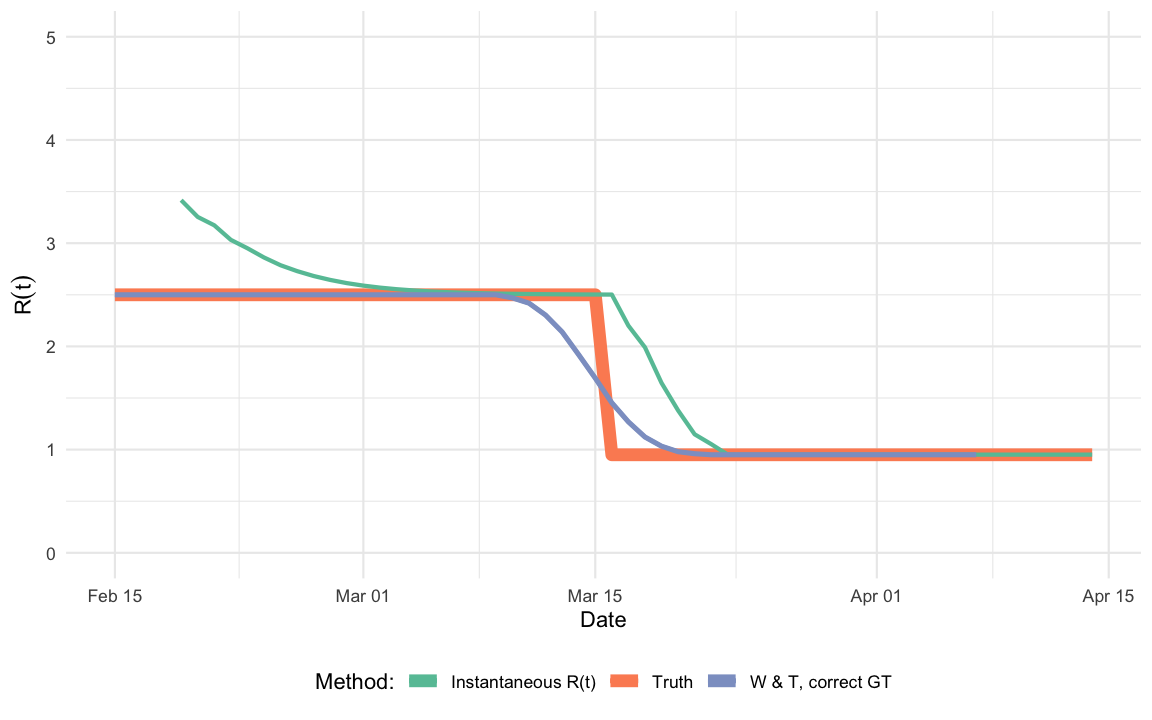
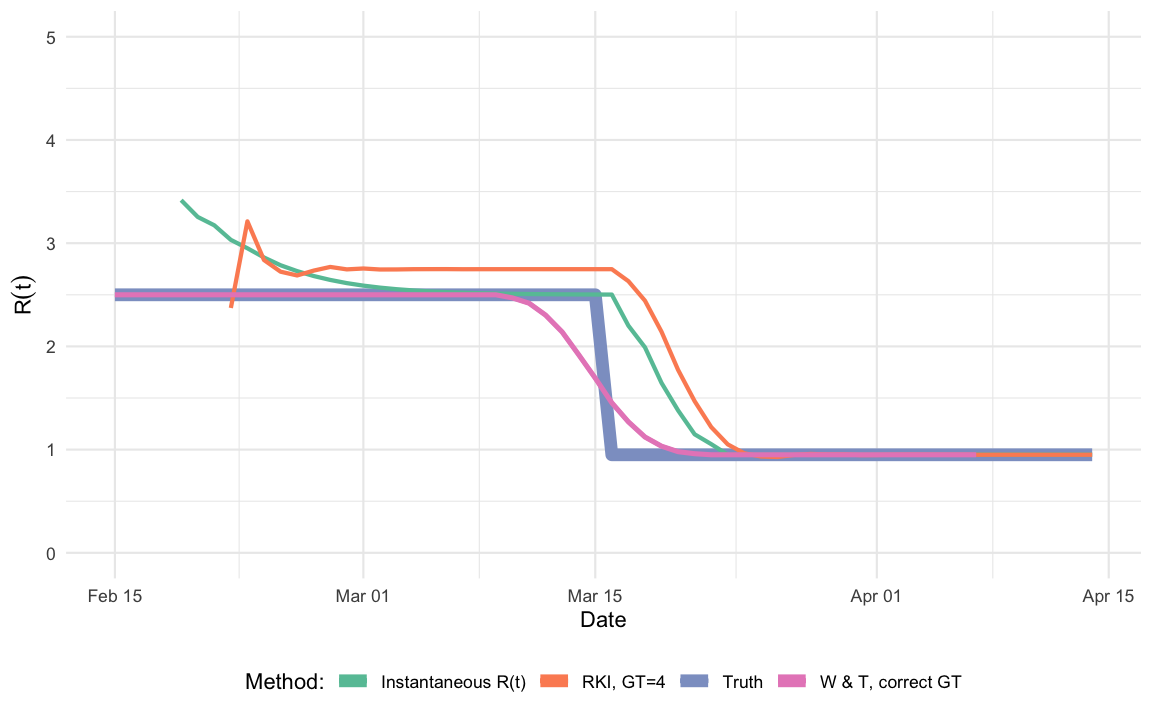
updated rki method to assign value to the last time point of the blocks,  as this is now specified in the 2020-04-24 version of the RKI paper

Changed region(s): [[0.0938, 0.3056, 0.9688, 0.6417], [0.2188, 0.9167, 0.8125, 0.9778], [0.5625, 0.4278, 0.5938, 0.5194]]

diff --git a/_posts/2020-04-15-effectiveR0.md b/_posts/2020-04-15-effectiveR0.md
@@ -162,27 +162,32 @@ $$
 y_{s+4} \>| \> y_s &\sim \operatorname{Po}(R \cdot y_s), \quad s=1,2,3,4.
 \end{align*}
 $$
-where $y_1,\ldots, y_4$ are considered as fixed. From this we obtain $\hat{R}_{RKI}=\sum_{s=1}^4 y_{s+4} / \sum_{s=1}^4 y_{s}$. If we use a GLM to fit the model, we not only get $\hat{R}_{RKI}$ but also a confidence interval for $R$ out-of-the box. Somewhat arbitrary, we denote by $R_e(t)$ the above estimate for $R$ when $s=1$ corresponds to time $t$. 
+where $y_1,\ldots, y_4$ are considered as fixed. From this we obtain $\hat{R}_{RKI}=\sum_{s=1}^4 y_{s+4} / \sum_{s=1}^4 y_{s}$. If we use a GLM to fit the model, we not only get $\hat{R}$ but also a confidence interval for $R$ out-of-the box. Somewhat arbitrary, we denote by $R_e(t)$ the above estimate for $R$ when $s=1$ corresponds to time $t-8$, i.e. we assign the obtained value to the last of the 8 values used in the computation.
 
 In code:
 
+
 ```r
-#' RKI R_e(t) estimator with generation time GT (default GT=4)
+#' RKI R_e(t) estimator with generation time GT (default GT=4). Note: The time t
+#' is assigned to the last day in the blocks of cases on [t,t+1,t+2, t+3] vs.
+#' [t+4,t+5,t+6, t+7], i.e. s=t-8 (c.f. p. 14 of 2020-04-24 version of the RKI paper)
 #' @param ts - Vector of integer values containing the time series of incident cases
 #' @param GT - PMF of the generation time is a fixed point mass at the value GT.
 
-est_rt_rki <- function(ts, GT=4L) {
+est_rt_rki_last <- function(ts, GT=4L) {
   # Sanity check
   if (!is.integer(GT) | !(GT>0)) stop("GT has to be postive integer.")
-  # Estimate
-  sapply( (1+GT):(length(ts)-GT), function(t) {
-    sum(ts[t+(0:(GT-1))]) / sum(ts[t-(1:GT)]) 
+  # Estimate, if s=1 is t-7
+  res <- sapply( (2*GT):length(ts), function(t) {
+    sum(ts[t-(0:(GT-1))]) / sum(ts[t-2*GT+1:GT])
   })
+  names(res) <- names(ts)[(2*GT):length(ts)]
+  return(res)
 }
 ```
 Basically, the method appears to be the @wallinga_lipsitch2006 approach using a point mass generation time distribution, but with a slightly different timing of the sliding windows. However, since no references were given in the RKI publication, I got curious: what happens for this approach when the generation time distribution is not a point mass at $G$? What happens if the mean generation time is not an integer? 
 That these are not purely hypothetical question is underlined by the fact that @nishiura_serial_2020 find a serial interval distribution with mean 4.7 days and standard deviation 2.9 as the most suitable fit to data from 28 COVID-19 infector-infectee pairs. Such a serial interval distribution has the following shape:
-<img src="{{ site.baseurl }}/figure/source/2020-04-15-effectiveR0/unnamed-chunk-9-1.png" style="display: block; margin: auto;" />
+<img src="{{ site.baseurl }}/figure/source/2020-04-15-effectiveR0/unnamed-chunk-10-1.png" style="display: block; margin: auto;" />
 
 ### The Comparison
 The aim of this post is thus to compare the performance of the RKI estimator with both the @wallinga_teunis2004 and the @wallinga_lipsitch2006 estimators for the single outbreak simulated in this post. Results do, however, generalize to other configurations.
@@ -190,8 +195,8 @@ The aim of this post is thus to compare the performance of the RKI estimator wit
 We compute and plot of the $R_e(t)$ estimates:
 
 ```r
-# RKI method
-rt_rki <- est_rt_rki(out$y, GT=4L)
+# RKI method as specified in 2020-04-24 version of the article
+rt_rki_last <- est_rt_rki_last(out$y  %>% setNames(out$Date), GT=4L)
 
 # Exponential growth with discrete Laplace transform of a GT \equiv = 4 distribution
 rt_exp2 <- est_rt_exp( out$y %>% setNames(out$Date), GT_obj=R0::generation.time("empirical", c(0,0,0,0,1,0,0,0)), half_window_width=3)
@@ -207,24 +212,29 @@ Ret_true <- data.frame(Date=out$Date) %>% mutate(R_hat=Ret(Date), Method="Truth"
 ```
 
 
+
+
+
 <img src="{{ site.baseurl }}/figure/source/2020-04-15-effectiveR0/EFFECTIVERPLOT-1.png" style="display: block; margin: auto;" />
-The shaded area indicates the pointwise confidence intervals of the @wallinga_teunis2004 method. To make the results of the graph more explicit, we take a look at 3 time points in the beginning of the outbreak
+The shaded area indicates the pointwise confidence intervals of the @wallinga_teunis2004 method. To make the results of the graph more explicit, we take a look at 3 time points in the beginning of the outbreak:
+
+
 
 
 
 ```
 ##         Date W & T, correct GT RKI, GT=4 Truth Exp-G, correct GT
-## 1 2020-03-07               2.5  2.748057   2.5          2.500058
-## 2 2020-03-08               2.5  2.748072   2.5          2.500011
-## 3 2020-03-09               2.5  2.748074   2.5          2.500006
+## 1 2020-03-11          2.418862  2.748119   2.5          2.499998
+## 2 2020-03-12          2.303251  2.748070   2.5          2.500003
+## 3 2020-03-13          2.140055  2.748073   2.5          2.500000
 ```
 and 3 time points at the end of the outbreak:
 
 ```
 ##         Date W & T, correct GT RKI, GT=4 Truth Exp-G, correct GT
-## 1 2020-04-04              0.95 0.9502227  0.95         0.9498103
-## 2 2020-04-05              0.95 0.9501683  0.95         0.9502002
-## 3 2020-04-06              0.95 0.9502230  0.95         0.9501288
+## 1 2020-04-05              0.95 0.9499707  0.95         0.9502002
+## 2 2020-04-06              0.95 0.9500350  0.95         0.9501288
+## 3 2020-04-07              0.95 0.9499612  0.95         0.9500405
 ```
 
 One observes that the RKI method has a bias in this situation. To some extent this is not surprising, because both the W & T method as well as the exponential growth model use the correct generation time distribution, whereas the RKI method and the exponential growth with point mass distribution use an incorrect serial interval distribution. In practice "the correct" serial interval distribution would not be available -- only an estimate. However, one could reflect estimation uncertainty through additional bootstrapping of the two more advanced methods. A more thorough investigation of the methods would of course also have to investigate the effect of misspecification for the W & T (2004) method or the exponential growth approach. The point is, however, that the RKI method as stated in the report is not able to handle a non-point-mass generation time distribution, which does seem necessary.
@@ -238,14 +248,14 @@ $$
 \hat{R}(t) = \frac{y_t}{\sum_{s=1}^{t} g_{s} \cdot y_{t-s}}
 $$
 
-It can be interpreted as the average number of secondary cases that each symptomatic individual at time $t$ would infect if the conditions remained as they were at time $t$.
+It can be interpreted as the average number of secondary cases that each symptomatic individual at time $t$ would infect, if the conditions remained as they were at time $t$.
 
-Opposite to the forward looking approach of @wallinga_teunis2004, this estimator is defined backwards im time. As illustrated by this comment to a JAMA paper by [Lipsitch et al](https://github.com/keyajoshi/Pan_response), the definition of timing of $R(t)$ can make a big difference when comparing it with intervention measures. The instantaneous reproduction number estimator is implemented in the  [`EpiEstim`](https://cran.r-project.org/web/packages/EpiEstim/index.html) package [@cori_etal2013]. For our small simulation and without any smoothing window for the instantaneous estimator we obtain
+Opposite to the forward looking approach of @wallinga_teunis2004, this estimator is defined backwards in time. As illustrated by this comment to a JAMA paper by [Lipsitch et al.](https://github.com/keyajoshi/Pan_response), the definition of timing of $R(t)$ can make a big difference when comparing it with intervention measures. The instantaneous reproduction number estimator is implemented in the  [`EpiEstim`](https://cran.r-project.org/web/packages/EpiEstim/index.html) package [@cori_etal2013]. For our small simulation and without any smoothing window for the instantaneous estimator we obtain
 
 
 <img src="{{ site.baseurl }}/figure/source/2020-04-15-effectiveR0/PLOTINSTANTANEOUSR0-1.png" style="display: block; margin: auto;" />
 
-One observes that the change of the estimate in timing corresponds to the intervention, but it takes  time to adjust to the new situation and, hence, provides too high values reproduction number values for some days after the intervention, which is the point of [Lipsitch et al](https://github.com/keyajoshi/Pan_response). The plot shows how difficult it is to use reproduction number estimates to assess interventions, where the change is abrupt and at a time scale shorter than the serial interval.
+One observes that the change of the estimate in timing corresponds to the intervention, but it takes  time to adjust to the new situation and, hence, provides too high values reproduction number values for some days after the intervention, which is the point of [Lipsitch et al.](https://github.com/keyajoshi/Pan_response). The plot shows how difficult it is to use reproduction number estimates to assess interventions, where the change is abrupt and at a time scale shorter than the serial interval. Furthermore, since the RKI method is assigned to the last time point of the two 4-blocks compared, it appears in interpretation to be closer to the instantenous reproduction number.
 
 At this point it is good to remember why one started to consider the effective reproduction number in the first place. That is, as a real-time (i.e. with interventions and immunity) extension of the basic reproduction number $R_0$. To me this definition is inherently forward in time.
 
